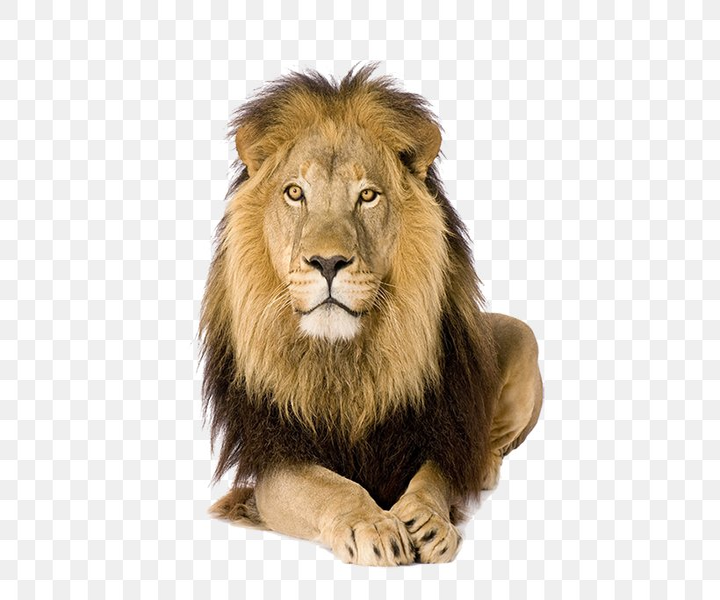
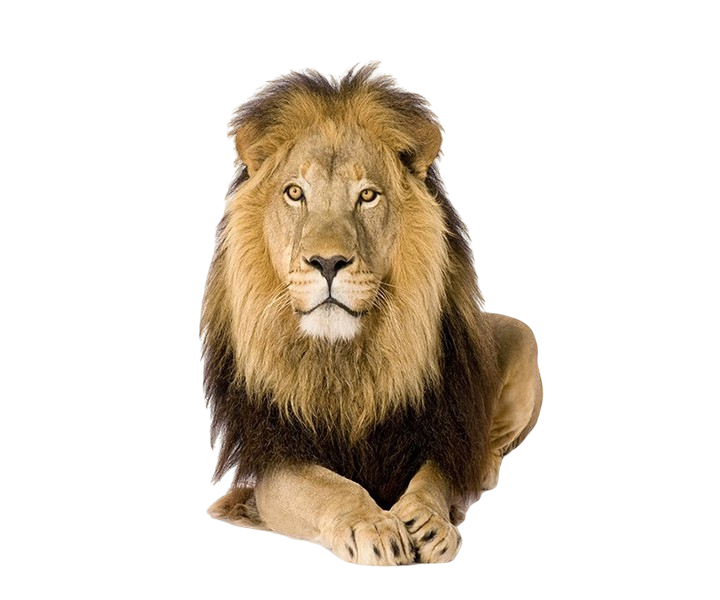
Removed background from images and makes them in right place

diff --git a/style.css b/style.css
@@ -1,0 +1,52 @@
+* {
+    margin: 0;
+    padding: 0;
+}
+
+
+.lions {
+    width: 100%;
+    height: 100vh;
+    position: relative;
+    background-color: #CCC;
+    overflow: hidden;
+    background-image: none;
+
+}
+
+.lions img.color {
+    position: absolute;
+    bottom: -3%;
+    right: 5%;
+    height: 50%;
+    z-index: 1;
+
+}
+
+.lions img.colorless {
+    position: absolute;
+    left: -12%;
+    height: 118%;
+    bottom: -6%;
+    opacity: 1;
+}
+
+/* 
+@media (orientation: landscape) {
+    .lions img.color {
+
+        left: -12%;
+        height: 118%;
+        bottom: -6%;
+
+    }
+
+    .lions img.colorless {
+        bottom: -3%;
+        right: -10%;
+        height: 36%;
+
+    }
+
+
+} */

diff --git a/index.html b/index.html
@@ -5,10 +5,21 @@
     <meta charset="UTF-8">
     <meta name="viewport" content="width=device-width, initial-scale=1.0">
     <title>Slider</title>
+    <link rel="stylesheet" href="style.css">
 </head>
 
 <body>
+    <section class="lions">
+        <img src="lion1.png" class="color">
+        <img src="lion1a.png" class="colorless">
+        <div class="titles">
+            <h1></h1>
+            <h2></h2>
+        </div>
 
+
+
+    </section>
 </body>
 
 </html>
